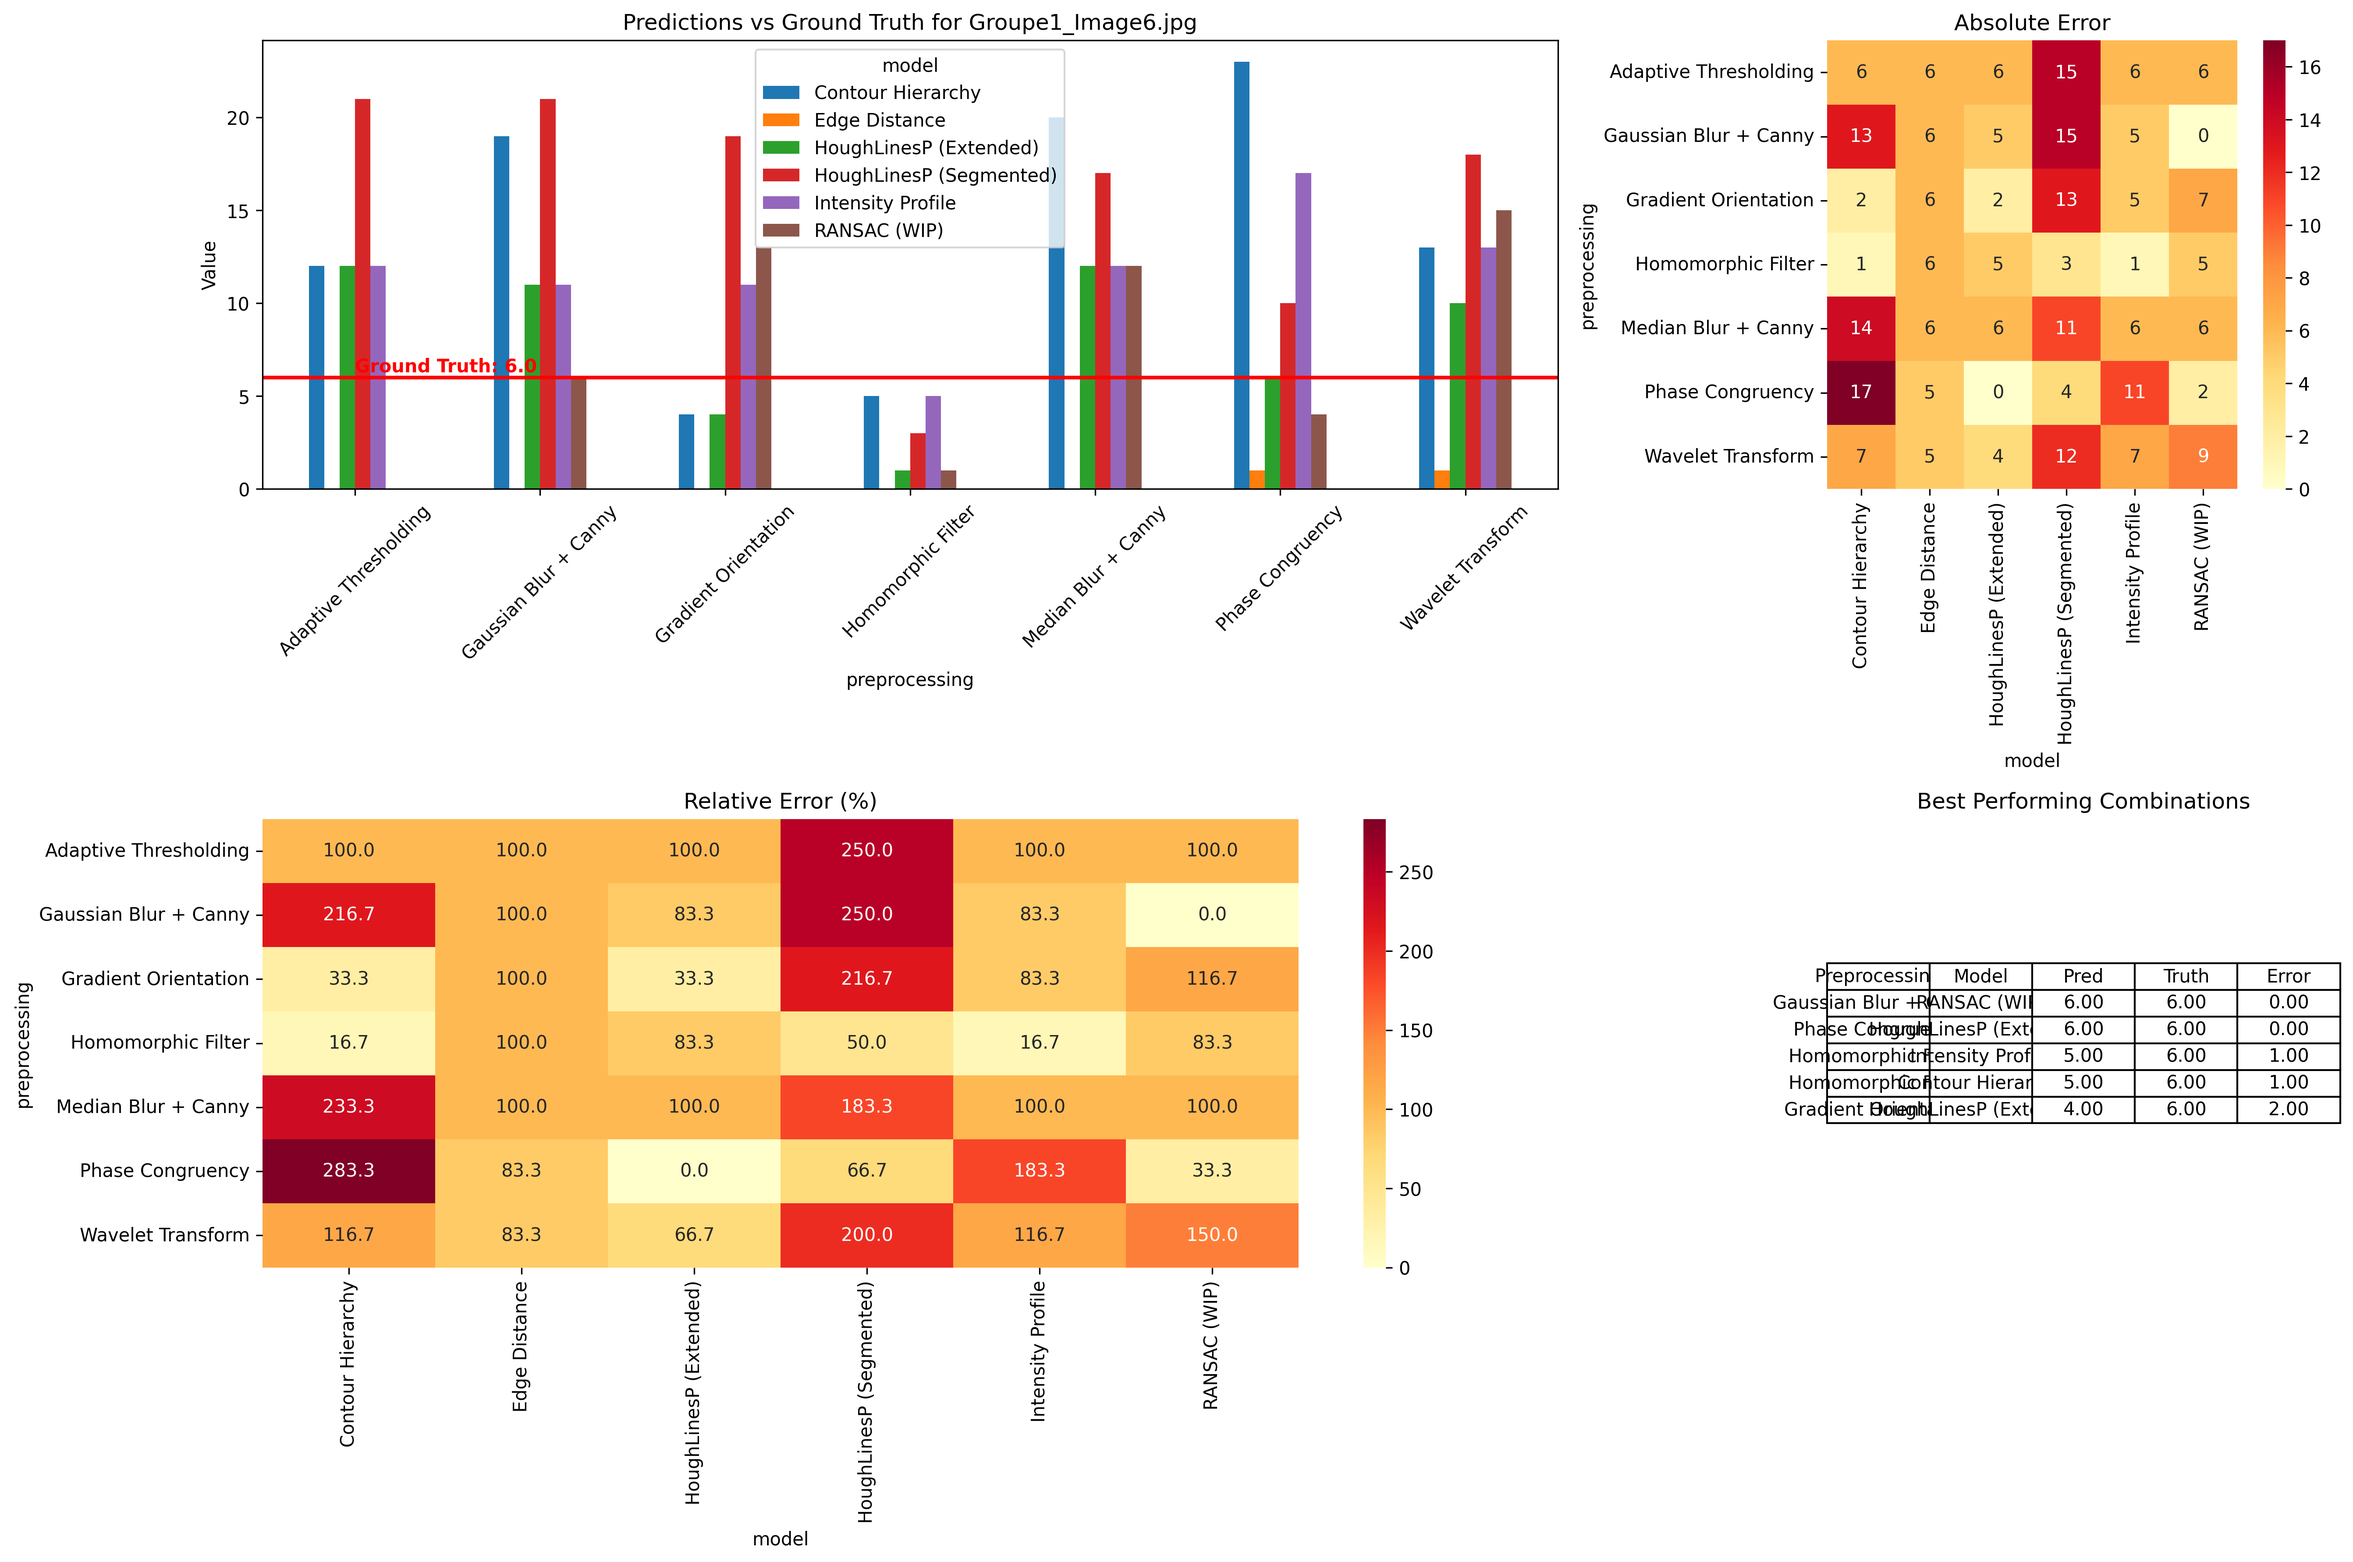
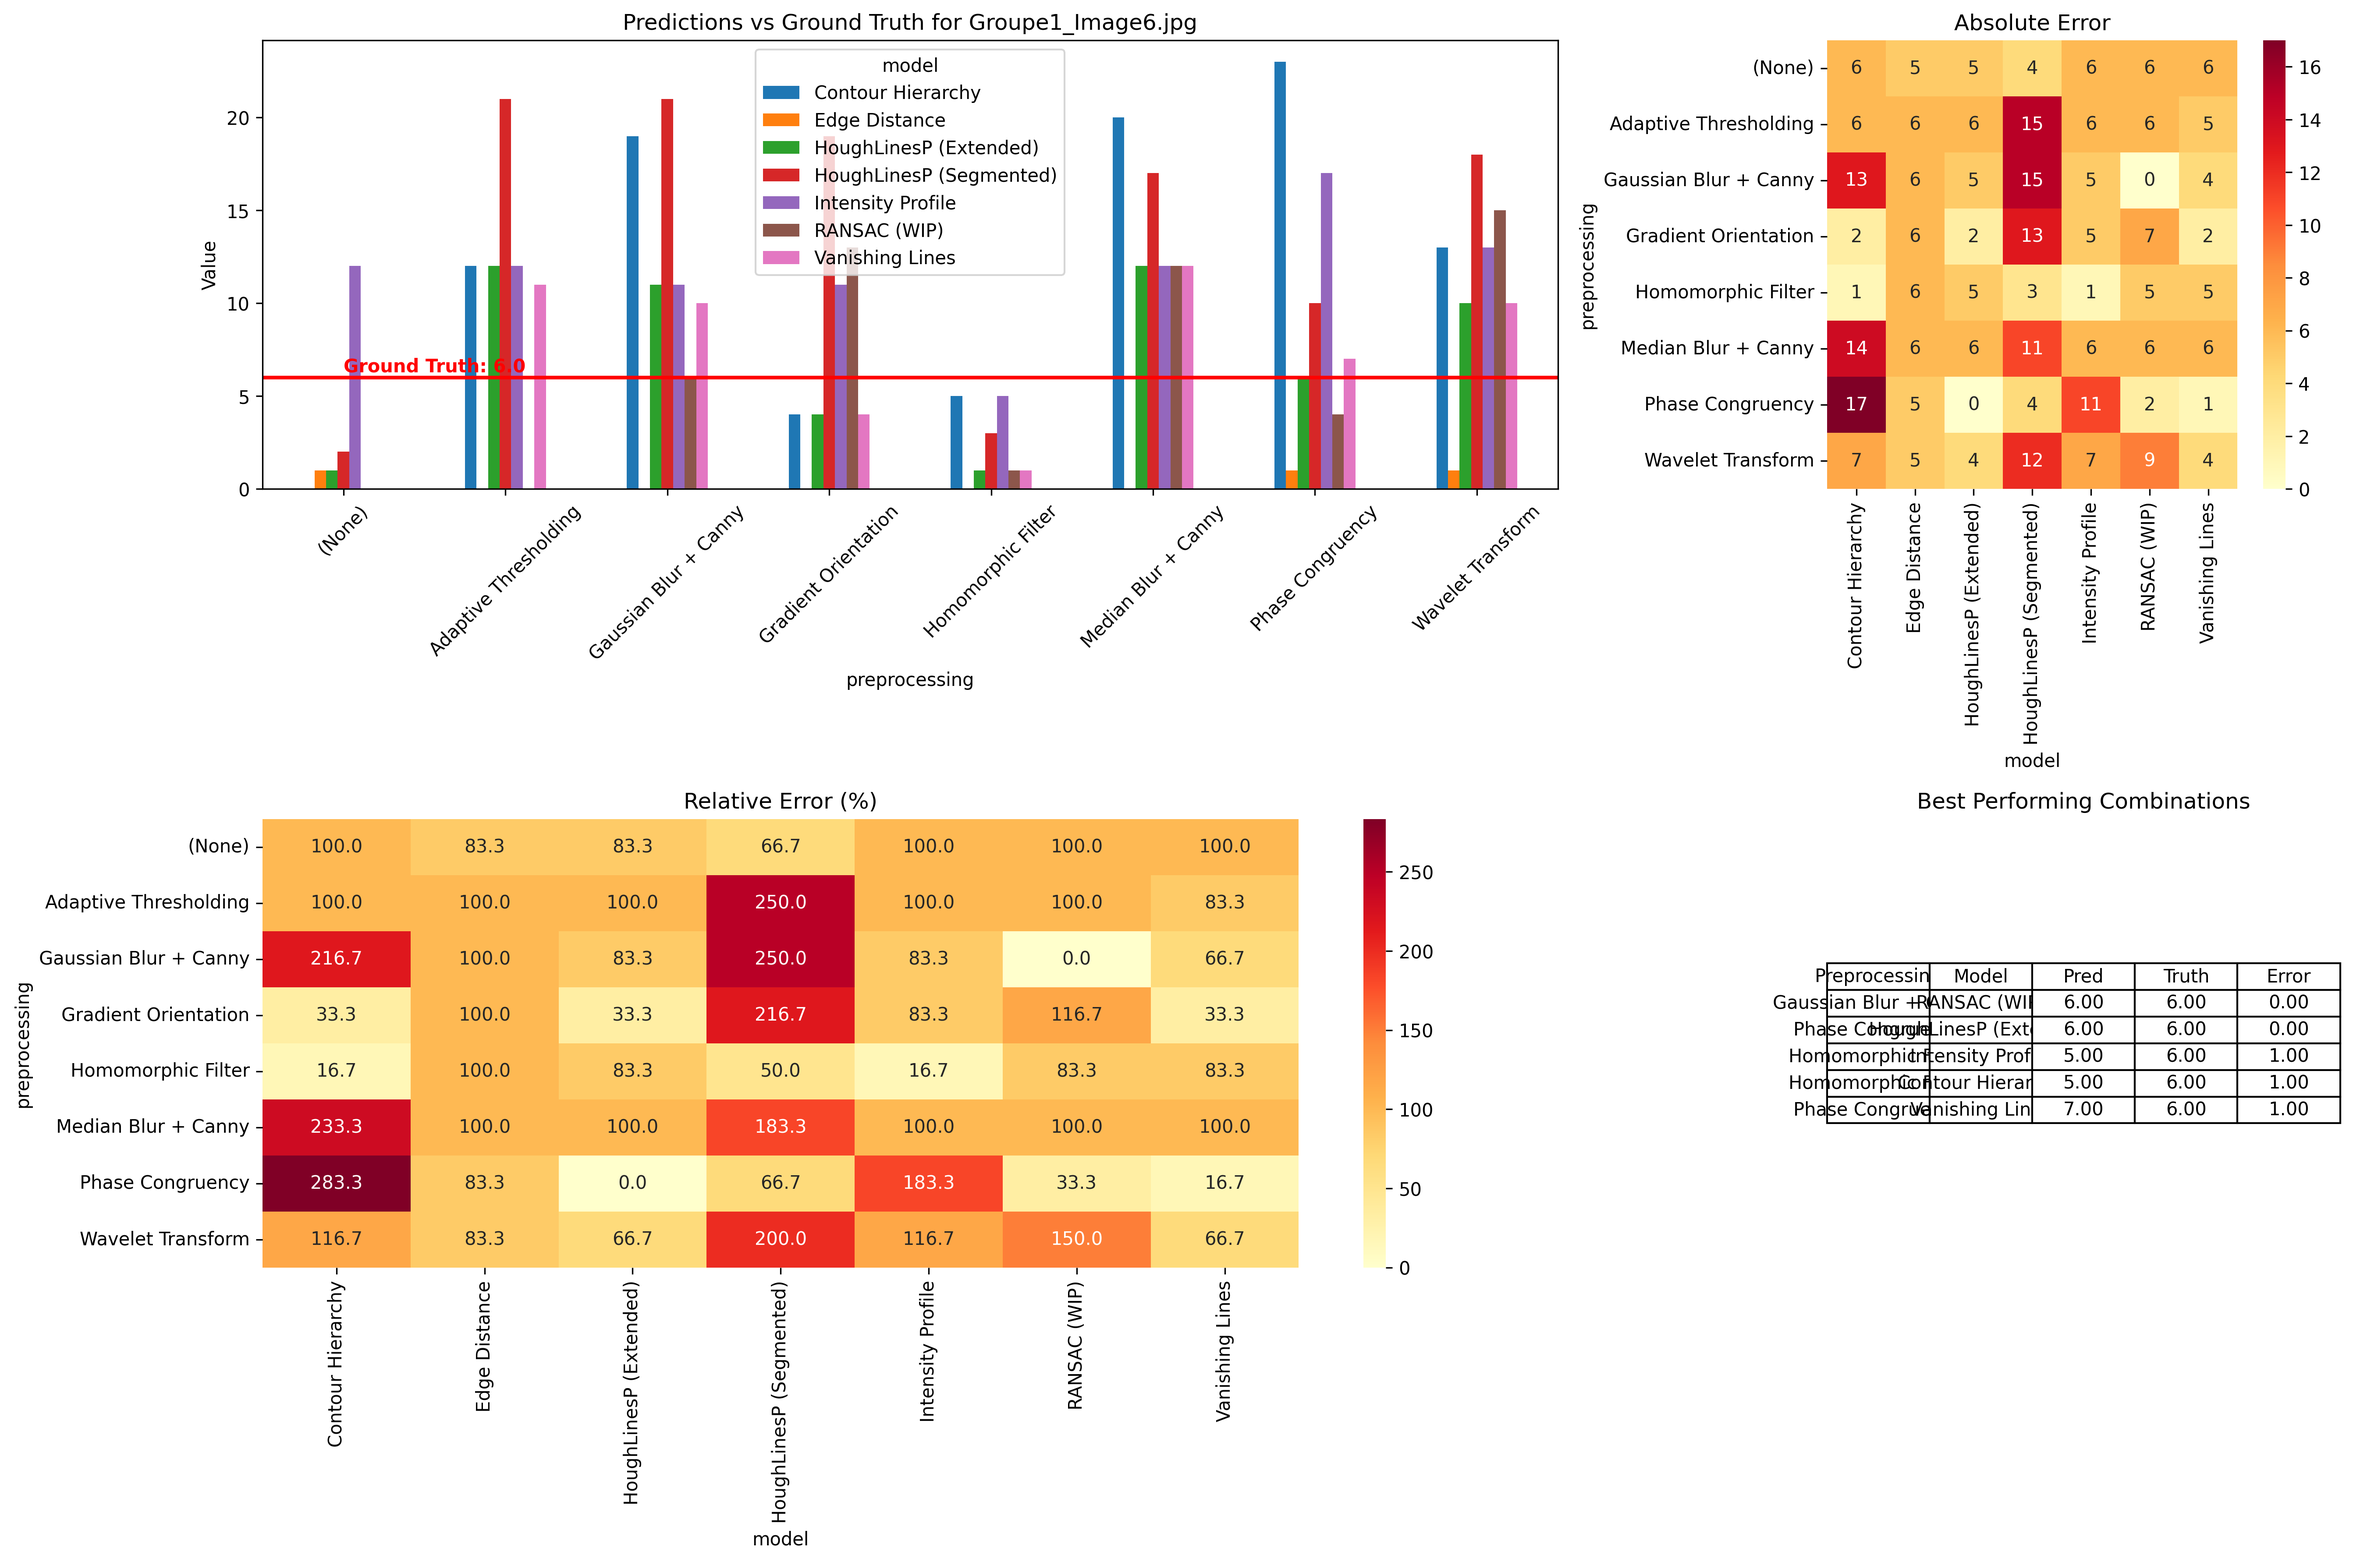
Update 1

diff --git a/src/evaluation.py b/src/evaluation.py
@@ -74,7 +74,7 @@ def evaluate_all_combinations(image_paths, ground_truth):
     
     # Definition des modeles et des preprocessing
     preprocessing_methods = {
-        #'(None)': lambda img: img.copy(),
+        '(None)': lambda img: img.copy(),
         'Gaussian Blur + Canny': preprocess_gaussian,
         'Median Blur + Canny': preprocess_median,
         #'Split and Merge': preprocess_splitAndMerge, #Trop Lourd
@@ -88,7 +88,7 @@ def evaluate_all_combinations(image_paths, ground_truth):
     models = {
         'HoughLinesP (Segmented)': detect_steps_houghLineSeg,
         'HoughLinesP (Extended)': detect_steps_houghLineExt,
-        #'Vanishing Lines': detect_vanishing_lines,
+        'Vanishing Lines': detect_vanishing_lines,
         'RANSAC (WIP)': detect_steps_RANSAC,
         'Intensity Profile': detect_steps_intensity_profile,
         'Contour Hierarchy': detect_steps_contour_hierarchy,

diff --git a/src/gui/gui.py b/src/gui/gui.py
@@ -136,7 +136,7 @@ class Interface(tk.Tk):
                 self.show_image()  # Affiche la première image
 
     def load_ground_truth(self):
-        gt_path = filedialog.askopenfilename(filetypes=[("JSON files", "*.json")])  # Ouvre une boîte de dialogue pour charger un fichier JSON
+        gt_path = filedialog.askopenfilename(initialdir='data', filetypes=[("JSON files", "*.json")])  # Ouvre une boîte de dialogue pour charger un fichier JSON
         if gt_path:
             with open(gt_path, 'r') as f:
                 data = json.load(f)
